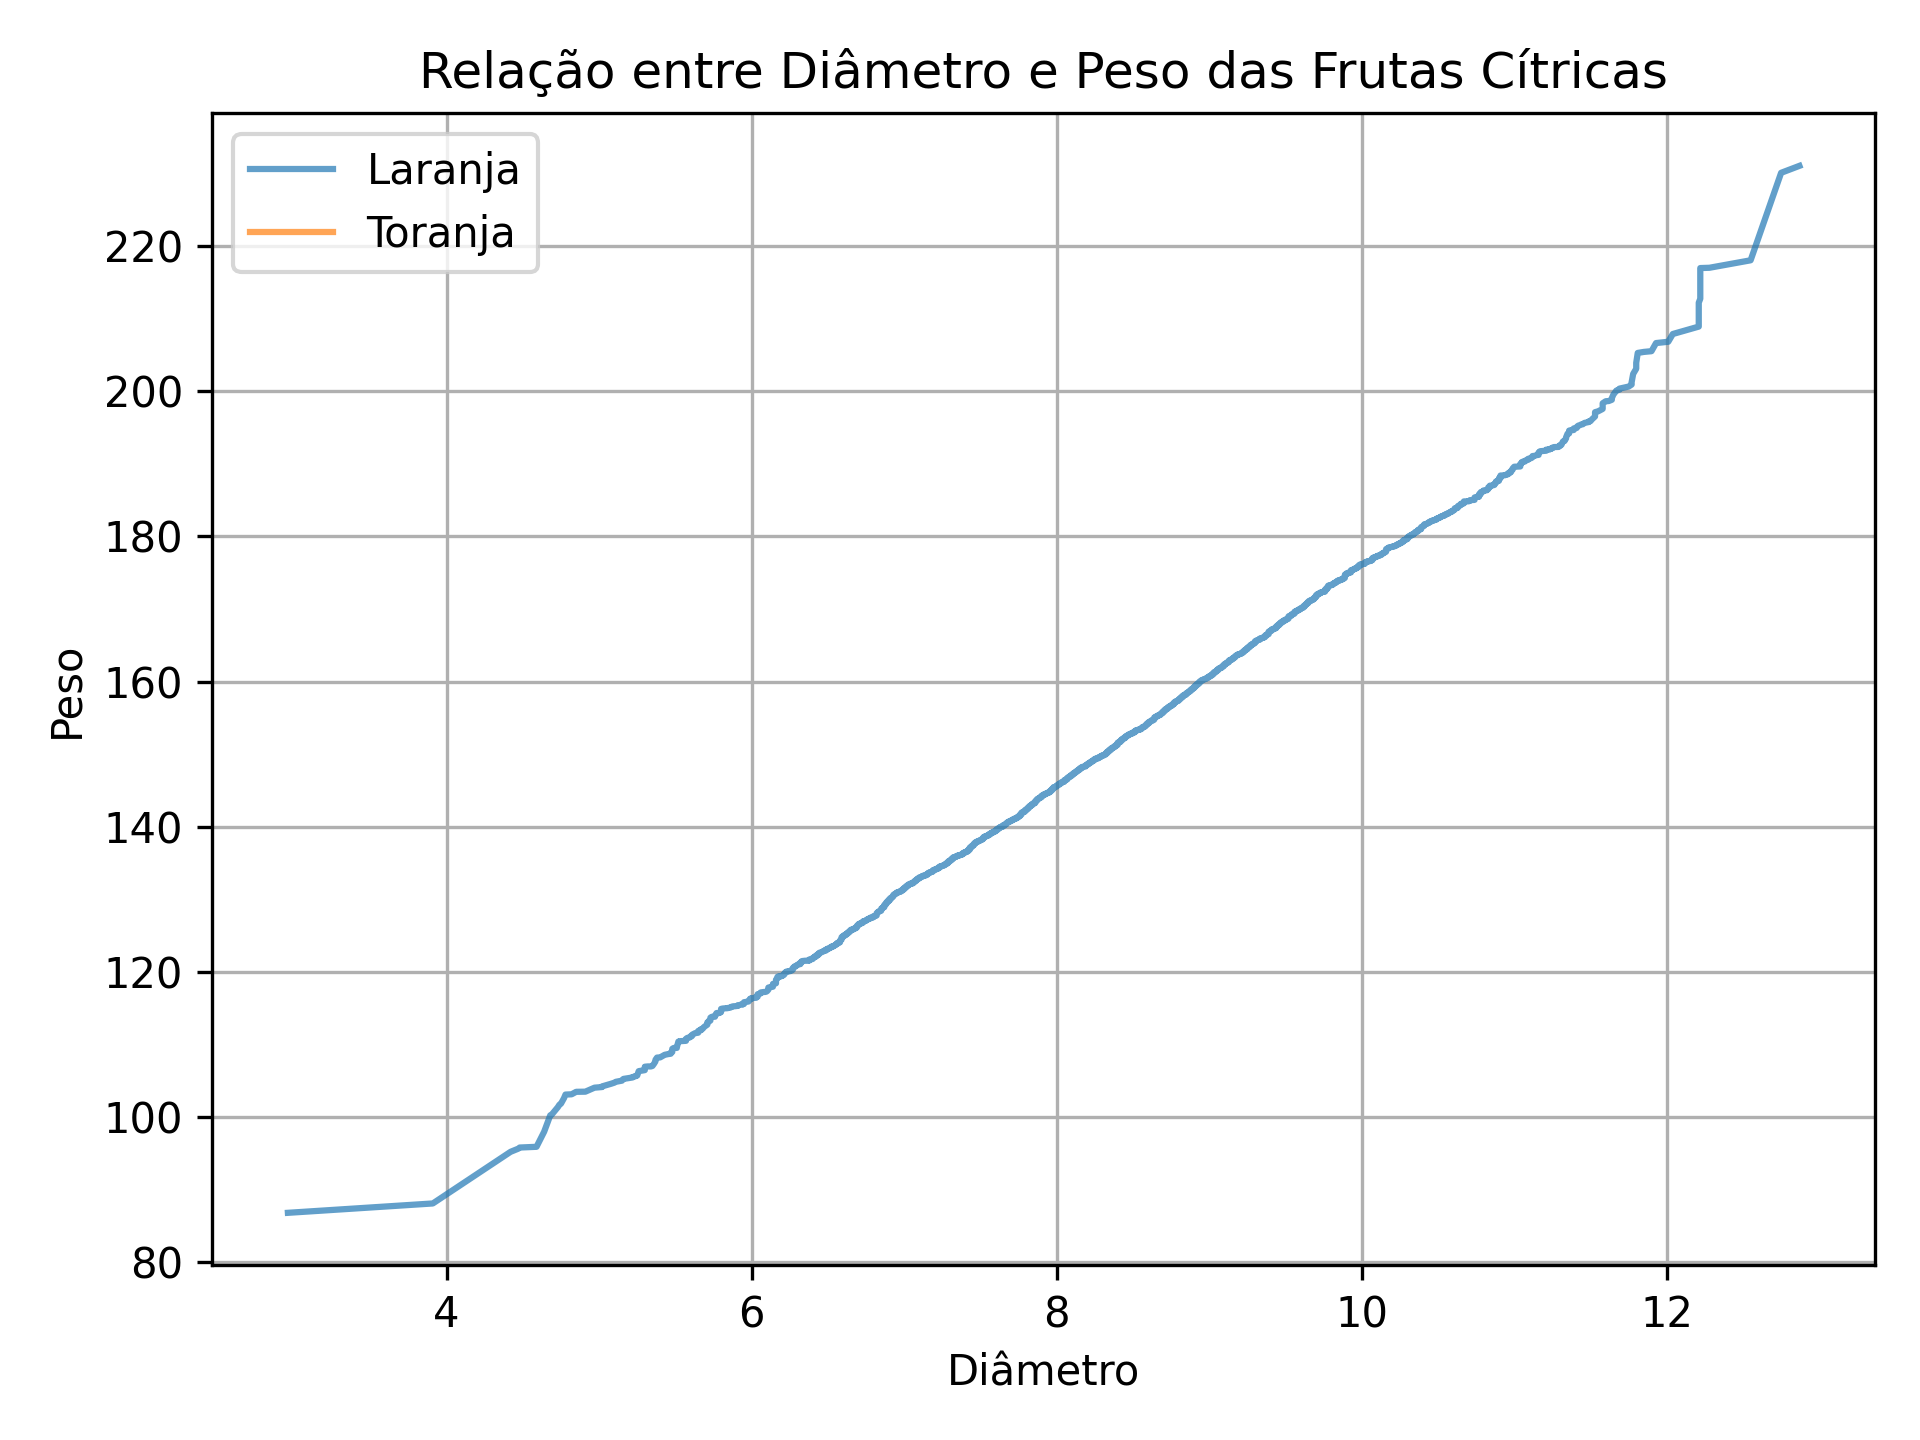
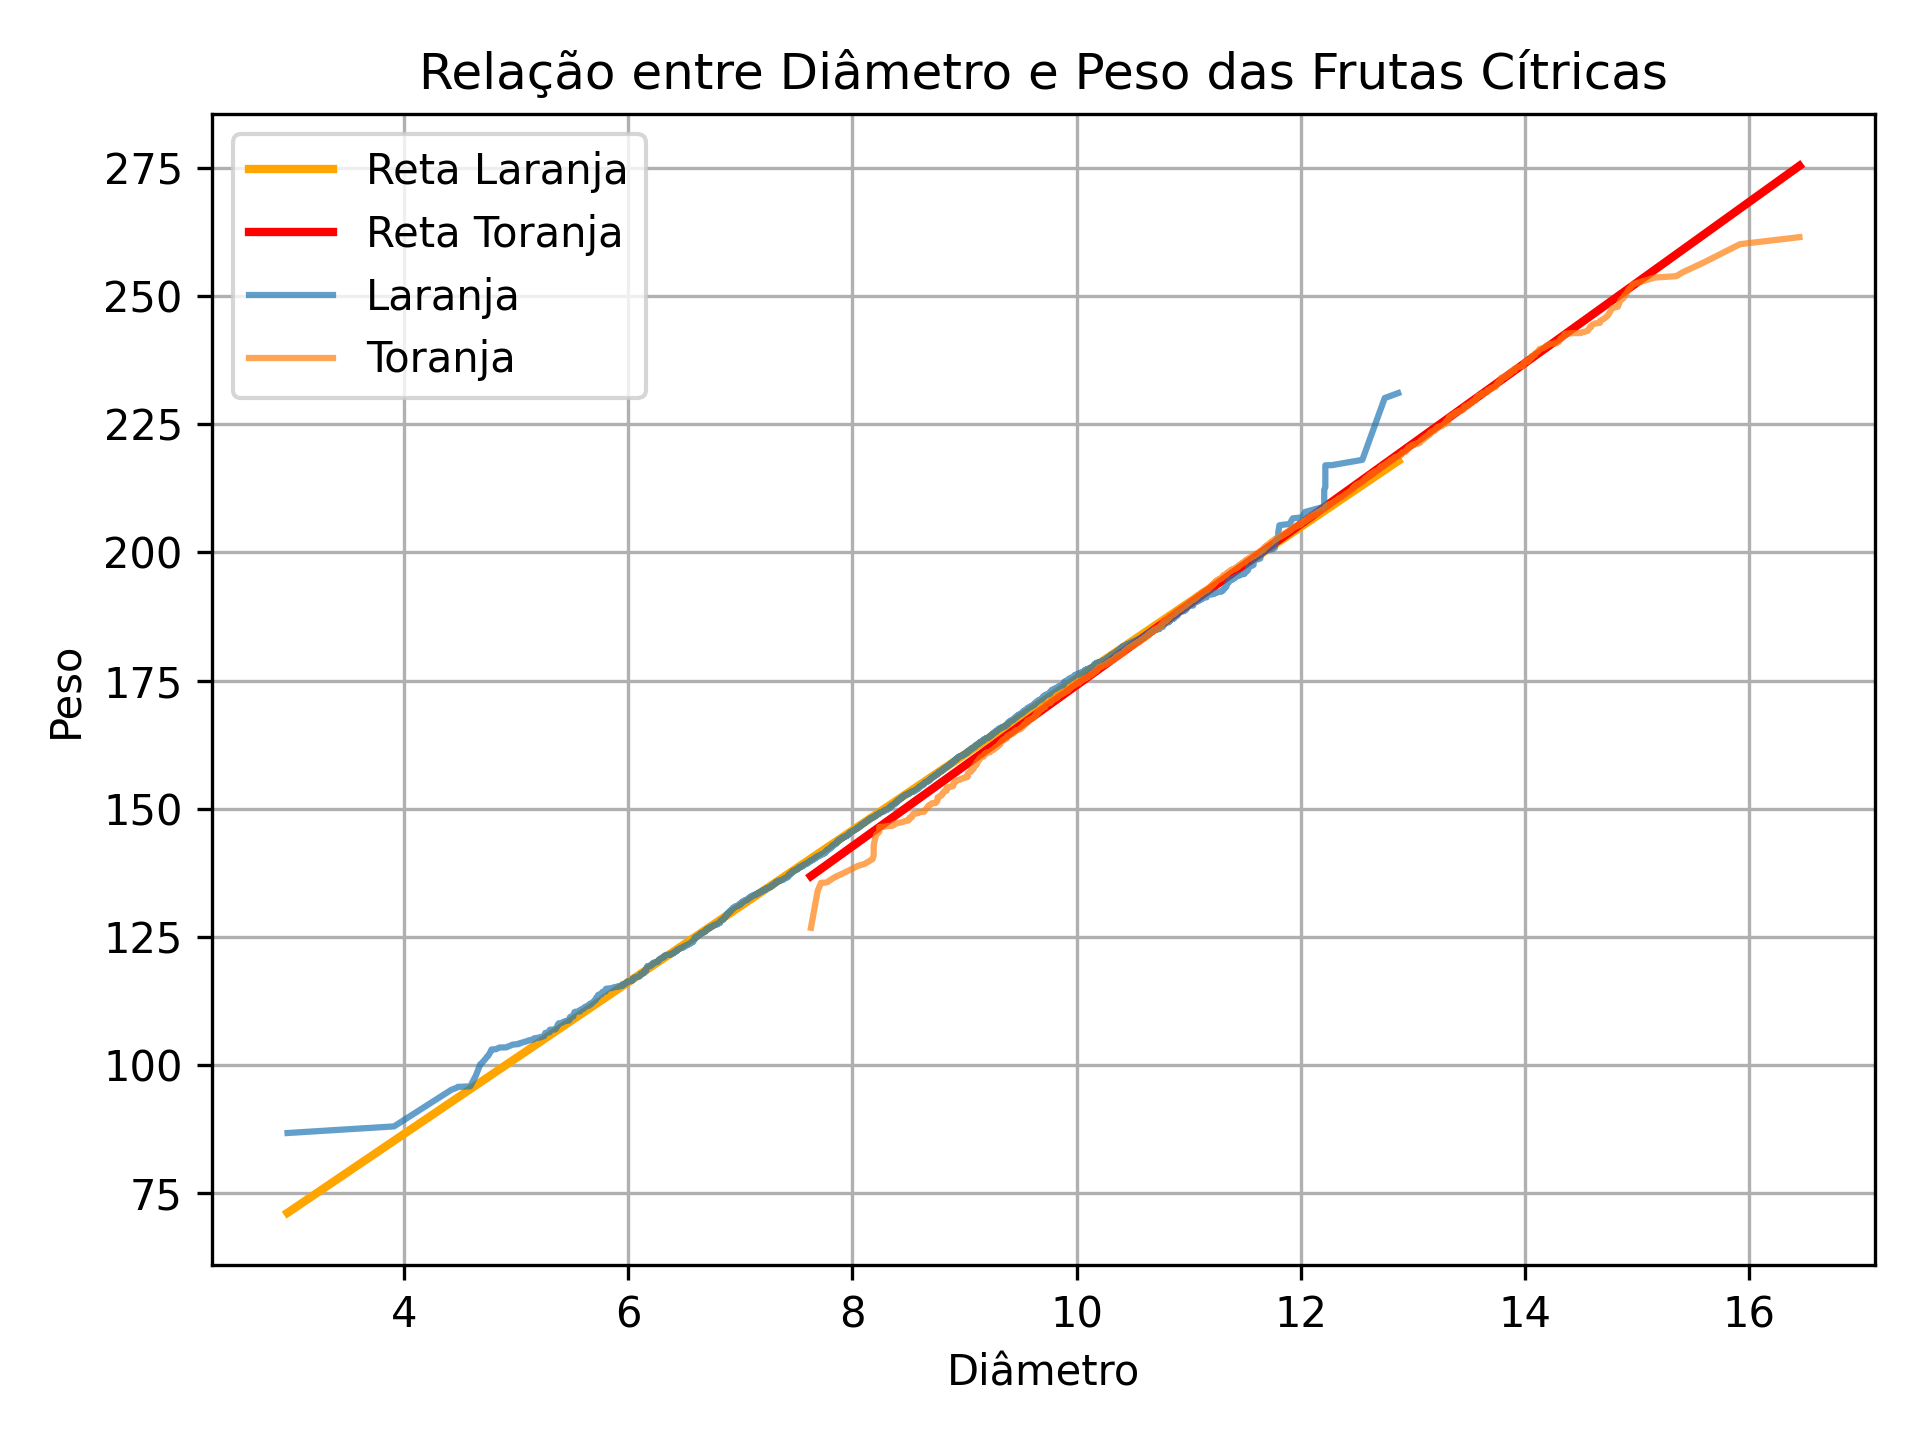
Atualiza dados toranja

diff --git a/graficos_citrus.py b/graficos_citrus.py
@@ -3,9 +3,17 @@
 import numpy as np
 import matplotlib.pyplot as plt
 
+
 def carregar_dados(url):
     """Carrega os dados do CSV remoto e retorna como array NumPy."""
-    return np.loadtxt(url, delimiter=",", skiprows=1, usecols=np.arange(1, 6, 1))
+    try:
+        dados = np.loadtxt(url, delimiter=",", skiprows=1, usecols=np.arange(1, 6, 1))
+        print("Dados carregados com sucesso.")
+        return dados
+
+    except Exception as e:
+        print(f"Erro ao carregar os dados: {e}")
+        raise
 
 
 def separar_frutas(dados):
@@ -21,7 +29,9 @@ def calcular_coeficientes(x, y):
     Retorna a, b onde: y = ax + b
     """
     n = np.size(x)
-    a = (n * np.sum(x * y) - np.sum(x) * np.sum(y)) / (n * np.sum(x**2) - np.sum(x) ** 2)
+    a = (n * np.sum(x * y) - np.sum(x) * np.sum(y)) / (
+        n * np.sum(x**2) - np.sum(x) ** 2
+    )
     b = np.mean(y) - a * np.mean(x)
     return a, b
 
@@ -41,18 +51,40 @@ def plotar_relacao(x1, y1, x2, y2):
     plt.close("all")
 
 
+def plotar_retas_regressao(x, y, a, b, cor, label):
+    """Plota a reta de regressão linear."""
+    plt.plot(x, a * x + b, color=cor, label=label, linewidth=2)
+    plt.legend()
+    plt.xlabel("Diâmetro")
+    plt.ylabel("Peso")
+    plt.title("Reta de Regressão Linear")
+    plt.grid(True)
+    plt.tight_layout()
+
+
 def main():
     """Função principal para carregar dados, calcular coeficientes e plotar o gráfico."""
     dados = carregar_dados("citrus.csv")
-    laranja, toranja = separar_frutas(dados)
 
-    laranja_diametro = laranja[:5000, 0]
-    laranja_peso = laranja[:5000, 1]
-    toranja_diametro = toranja[5000:, 0]
-    toranja_peso = toranja[5000:, 1]
+    laranja_diametro = dados[:5000, 0]
+    laranja_peso = dados[:5000, 1]
+    toranja_diametro = dados[5000:, 0]
+    toranja_peso = dados[5000:, 1]
+    print(laranja_diametro)
 
     a_laranja, b_laranja = calcular_coeficientes(laranja_diametro, laranja_peso)
     a_toranja, b_toranja = calcular_coeficientes(toranja_diametro, toranja_peso)
+
+    print("Equações das retas de regressão:")
+    plotar_retas_regressao(
+        laranja_diametro, laranja_peso,
+        a_laranja, b_laranja, "orange", "Reta Laranja"
+    )
+    plotar_retas_regressao(
+        toranja_diametro, toranja_peso,
+        a_toranja, b_toranja, "red", "Reta Toranja"
+    )
+
 
     print(f"Laranja: y = {a_laranja:.2f}x + {b_laranja:.2f}")
     print(f"Toranja: y = {a_toranja:.2f}x + {b_toranja:.2f}")
